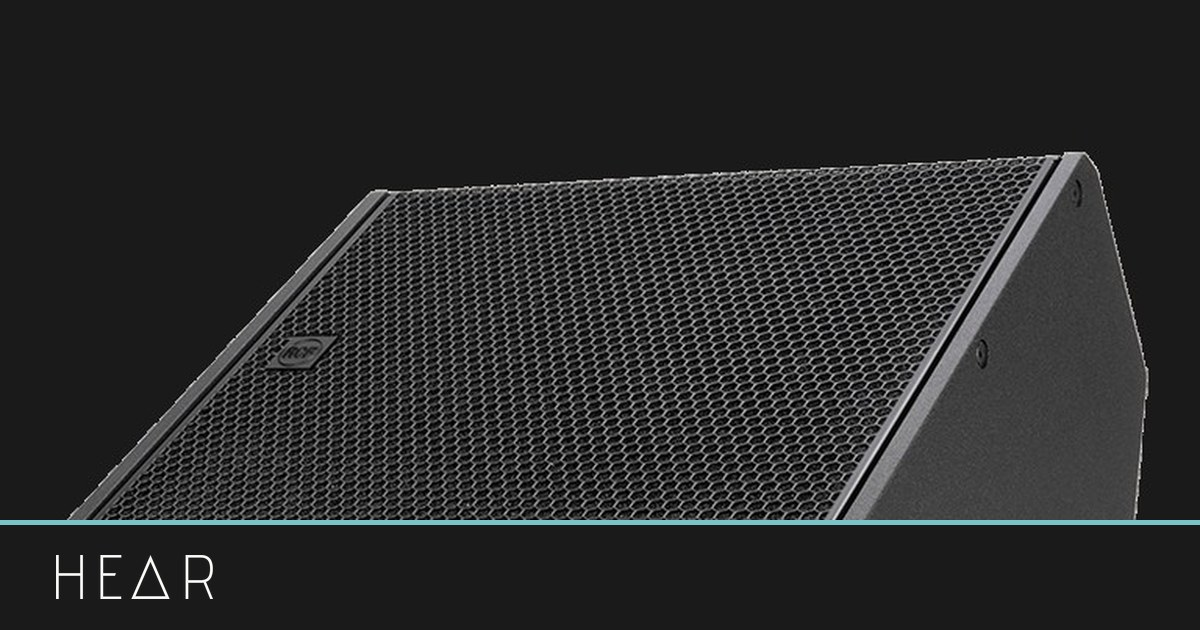
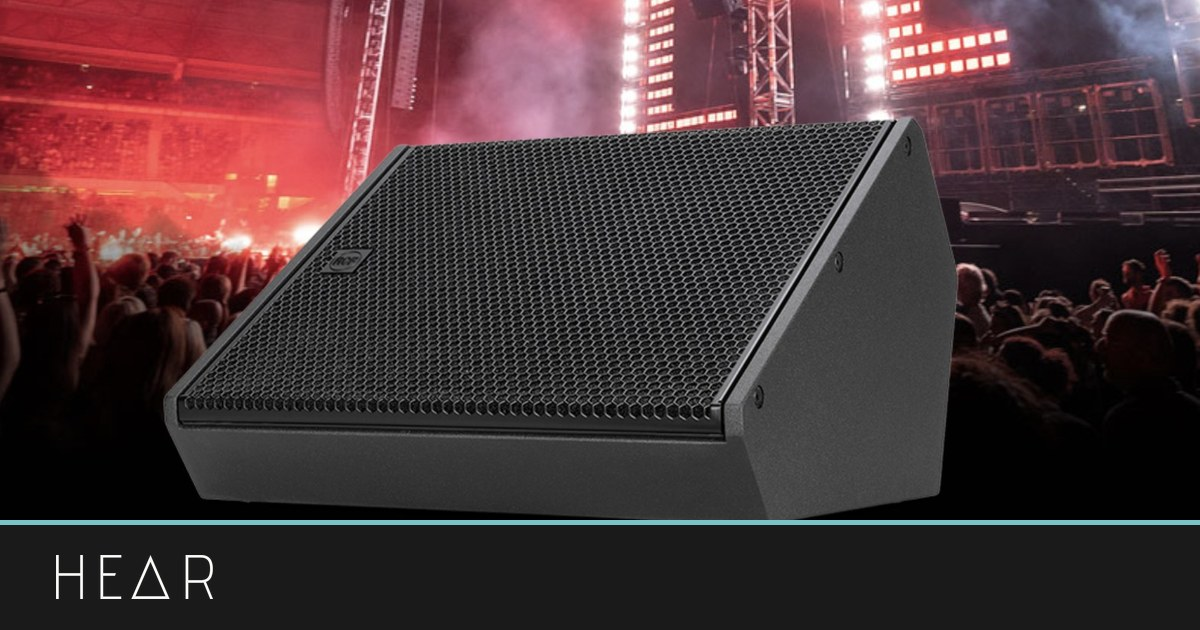
Nieuws: KXM-beeld vervangen; bericht twee sets 808+515
Claude-Session: https://claude.ai/code/session_01GmX7kLSd7zBrRVaX3p88AV

diff --git a/site/nieuws/twee-sets-808-515.html b/site/nieuws/twee-sets-808-515.html
@@ -1,0 +1,51 @@
+<!doctype html><html lang="nl"><head><meta charset="utf-8"><meta name="viewport" content="width=device-width,initial-scale=1"><meta name="description" content="Twee compacte sub-topsets die drie dingen kunnen: op zichzelf spelen bij een lezing of intieme cocktailparty, monitoren in de dj-booth, en als frontfill of"><title>Nieuw in huis: twee sets RCF SUB 808-AS met KX 515-A · HEAR</title><meta property="og:title" content="Nieuw in huis: twee sets RCF SUB 808-AS met KX 515-A"><meta property="og:description" content="Twee compacte sub-topsets die drie dingen kunnen: op zichzelf spelen bij een lezing of intieme cocktailparty, monitoren in de dj-booth, en als frontfill of delay meedraaien in het grote systeem."><meta property="og:url" content="https://hear.maartenversteeg.workers.dev/nieuws/twee-sets-808-515.html"><meta property="og:site_name" content="HEAR"><meta property="og:type" content="article"><meta property="og:locale" content="nl_NL"><meta property="og:image" content="https://hear.maartenversteeg.workers.dev/img/nieuws/twee-sets-808-515-social.jpg"><meta property="og:image:width" content="1200"><meta property="og:image:height" content="630"><meta name="twitter:card" content="summary_large_image"><meta name="twitter:image" content="https://hear.maartenversteeg.workers.dev/img/nieuws/twee-sets-808-515-social.jpg"><link rel="canonical" href="https://hear.maartenversteeg.workers.dev/nieuws/twee-sets-808-515.html"><link rel="preconnect" href="https://fonts.googleapis.com"><link rel="preconnect" href="https://fonts.gstatic.com" crossorigin><link href="https://fonts.googleapis.com/css2?family=Advent+Pro:wght@300;400;500&display=swap" rel="stylesheet"><link rel="stylesheet" href="/home.css"><link rel="stylesheet" href="/styles.css"></head><body class="pagina"><header class="top">
+  <a class="merk" href="/index.html" aria-label="HEAR, naar de homepage"><img src="/img/logo-white.png" alt="HEAR"></a>
+  <nav class="topnav" aria-label="Hoofdnavigatie">
+    <a href="/cases.html">Cases</a>
+    <a href="/doelgroepen.html">Voor wie</a>
+    <a href="/principes.html">Principes</a>
+    <a href="/diensten.html">Producten</a>
+    <a href="/over-hear.html">Over HEAR</a>
+    <a href="/nieuws/" aria-current="page">Nieuws</a>
+  </nav>
+  <a class="taal" href="/index.html" lang="en" hreflang="en" aria-label="Switch to English">EN</a>
+  <button class="menuknop" type="button" aria-expanded="false" aria-controls="menu" aria-label="Menu openen">
+    <span></span><span></span>
+  </button>
+</header>
+<div class="menu" id="menu" hidden>
+  <nav aria-label="Hoofdmenu">
+      <a href="/cases.html"><span>Voorbeeldcases</span><small>Events die tot de verbeelding spreken</small></a>
+      <a href="/doelgroepen.html"><span>Voor wie is HEAR</span><small>Corporate, venue owners en dance events</small></a>
+      <a href="/principes.html"><span>Principes</span><small>De manier waarop wij werken</small></a>
+      <a href="/diensten.html"><span>Producten en diensten</span><small>Licht, geluid, dj-gear en advies</small></a>
+      <a href="/over-hear.html"><span>Over HEAR</span><small>Oprichter Maarten stelt zich voor</small></a>
+      <a href="/nieuws/"><span>Nieuws</span><small>Nieuwe producten, events en berichten</small></a>
+  </nav>
+</div>
+<script>
+  (function(){
+    var k=document.querySelector('.menuknop'), m=document.getElementById('menu');
+    function zet(open){ k.setAttribute('aria-expanded',open); k.setAttribute('aria-label',open?'Menu sluiten':'Menu openen'); m.hidden=!open; document.body.classList.toggle('menu-open',open); }
+    k.addEventListener('click',function(){ zet(k.getAttribute('aria-expanded')!=='true'); });
+    document.addEventListener('keydown',function(e){ if(e.key==='Escape') zet(false); });
+  })();
+</script><main class="wrap">
+<section class="casehead"><a class="crumb" href="/nieuws/">← Nieuws</a><p class="label nieuws-datum"><time datetime="2026-10-17">17 oktober 2026</time></p><h1 class="kernzin">Nieuw in huis: twee sets RCF SUB 808-AS met KX 515-A</h1></section>
+<figure class="casehero"><img src="/img/nieuws/808-515-set.jpg" alt="RCF KX 515-A top op een afstandsbuis boven een SUB 808-AS, net uitgepakt" style="object-position:center 40%"></figure>
+<section class="quick quick-breed"><p>Twee compacte sub-topsets die drie dingen kunnen: op zichzelf spelen bij een lezing of intieme cocktailparty, monitoren in de dj-booth, en als frontfill of delay meedraaien in het grote systeem.</p></section>
+<section class="case-sections"><article class="case-section nieuws-tekst"><h2>WAAROM TWEE</h2><div><p>De SUB 808-AS met de KX 515-A erop is onze kleinste volwaardige set: een compacte sub en een top uit dezelfde familie als de KXL 4-A, dus met dezelfde klank, een maat kleiner. Voor een speech, een panel of een cocktailparty tot zo&#x27;n 150 gasten is dit genoeg, en het staat in een paar minuten.</p><p>In de dj-booth doet dezelfde combinatie dienst als monitor, met de tops op oorhoogte links en rechts van de dj.</p><p>De derde rol is de reden dat het er twee zijn. In een groter systeem gaat de 515 los van zijn sub mee als frontfill voor de eerste rijen, of als delay verderop in de zaal. Daardoor kunnen de KXL-toppen hoger hangen en verder richten: het geluid van de mains wordt niet meer door de eerste hoofden opgegeten, en achterin blijft het vol zonder dat het vooraan hard wordt.</p><p class="knoprij"><a class="wa sc" href="/high-end-audio.html">Bekijk high-end audio<i aria-hidden="true">→</i></a></p></div></article></section>
+<nav class="verwijzingen" aria-label="Verder"><a href="/nieuws/">Alle berichten →</a><a href="/index.html">Naar de homepage →</a></nav>
+</main><footer class="voet">
+  <div class="voet-kolommen">
+    <div class="voet-merk">
+      <img src="/img/logo-white.png" alt="HEAR">
+      <p>High End Audio Rental · Amsterdam</p>
+      <p><a href="mailto:maarten@hear.nl">maarten@hear.nl</a></p>
+    </div>
+    <nav aria-label="Werk"><p class="label">Werk</p><a href="/cases.html">Cases</a><a href="/nieuws/">Nieuws</a><a href="/over-hear.html">Over HEAR</a></nav>
+    <nav aria-label="Voor wie"><p class="label">Voor wie</p><a href="/corporate.html">Corporate</a><a href="/venue-owners.html">Venue owners</a><a href="/dance-events.html">Dance events</a></nav>
+    <nav aria-label="Producten"><p class="label">Producten</p><a href="/booth-dj-gear.html">Booth en dj-gear</a><a href="/high-end-audio.html">High-end audio</a><a href="/atmospheric-lighting.html">Sfeerverlichting</a><a href="/dancefloor-lighting.html">Dansvloerverlichting</a><a href="/vintage-lighting.html">90's vintage licht</a><a href="/av-as-a-service.html">Advies en AV as a service</a><a href="/artiesten.html">Artiesten</a><a href="/special-projects.html">Special projects</a></nav>
+    <nav aria-label="Principes"><p class="label">Principes</p><a href="/principes.html#partnership">Partnership</a><a href="/principes.html#aesthetics">Uitstraling</a><a href="/principes.html#smart-solutions">Slimme oplossingen</a><a href="/principes.html#warm-sound">Warm geluid</a></nav>
+  </div>
+</footer></body></html>

diff --git a/site/nieuws/index.html b/site/nieuws/index.html
@@ -32,7 +32,7 @@
   })();
 </script><main class="wrap">
 <section class="casehead"><a class="crumb" href="/index.html">← HEAR</a><h1>Nieuws</h1></section>
-<section class="case-overzicht"><article class="case-tegel"><img src="/img/diensten/kxm-25.jpg" alt="RCF KXM 25-A floormonitor in wedgevorm" loading="lazy"><div class="case-tekst"><p class="labels"><time datetime="2026-10-17">17 oktober 2026</time></p><h2><a class="tegel-link" href="/nieuws/kxm-25-a-floormonitor.html">Nieuw in de booth: RCF KXM 25-A floormonitor</a></h2><p>Een 15-inch coaxiale floormonitor voor dj&#x27;s die hun monitoring liever onzichtbaar voor het publiek hebben. Krachtig, punchy en coherent.</p><span class="pijl" aria-hidden="true">→</span></div></article></section>
+<section class="case-overzicht"><article class="case-tegel"><img src="/img/nieuws/kxm-25-a-concert.jpg" alt="RCF KXM 25-A floormonitor met een festivalpodium op de achtergrond" loading="lazy" style="object-position:center 60%"><div class="case-tekst"><p class="labels"><time datetime="2026-10-17">17 oktober 2026</time></p><h2><a class="tegel-link" href="/nieuws/kxm-25-a-floormonitor.html">Nieuw in de booth: RCF KXM 25-A floormonitor</a></h2><p>Een 15-inch coaxiale floormonitor voor dj&#x27;s die hun monitoring liever onzichtbaar voor het publiek hebben. Krachtig, punchy en coherent.</p><span class="pijl" aria-hidden="true">→</span></div></article><article class="case-tegel"><img src="/img/nieuws/808-515-set.jpg" alt="RCF KX 515-A top op een afstandsbuis boven een SUB 808-AS, net uitgepakt" loading="lazy" style="object-position:center 40%"><div class="case-tekst"><p class="labels"><time datetime="2026-10-17">17 oktober 2026</time></p><h2><a class="tegel-link" href="/nieuws/twee-sets-808-515.html">Nieuw in huis: twee sets RCF SUB 808-AS met KX 515-A</a></h2><p>Twee compacte sub-topsets die drie dingen kunnen: op zichzelf spelen bij een lezing of intieme cocktailparty, monitoren in de dj-booth, en als frontfill of delay meedraaien in het grote systeem.</p><span class="pijl" aria-hidden="true">→</span></div></article></section>
 </main><footer class="voet">
   <div class="voet-kolommen">
     <div class="voet-merk">

diff --git a/site/nieuws/kxm-25-a-floormonitor.html b/site/nieuws/kxm-25-a-floormonitor.html
@@ -32,7 +32,7 @@
   })();
 </script><main class="wrap">
 <section class="casehead"><a class="crumb" href="/nieuws/">← Nieuws</a><p class="label nieuws-datum"><time datetime="2026-10-17">17 oktober 2026</time></p><h1 class="kernzin">Nieuw in de booth: RCF KXM 25-A floormonitor</h1></section>
-<figure class="casehero"><img src="/img/diensten/kxm-25.jpg" alt="RCF KXM 25-A floormonitor in wedgevorm"></figure>
+<figure class="casehero"><img src="/img/nieuws/kxm-25-a-concert.jpg" alt="RCF KXM 25-A floormonitor met een festivalpodium op de achtergrond" style="object-position:center 60%"></figure>
 <section class="quick quick-breed"><p>Een 15-inch coaxiale floormonitor voor dj&#x27;s die hun monitoring liever onzichtbaar voor het publiek hebben. Krachtig, punchy en coherent.</p></section>
 <section class="case-sections"><article class="case-section nieuws-tekst"><h2>WAT HET IS</h2><div><p>De KXM 25-A is een wedge: een lage, schuine monitor die op de vloer van de booth ligt en omhoog naar de dj is gericht. Het publiek ziet hem niet, de dj hoort zichzelf wel. Met 137 dB en een bereik vanaf 50 Hz is hij ook op een luide dansvloer verstaanbaar.</p><p>De woofer en de hoorn zitten coaxiaal, in één as. Daardoor komt het geluid uit één punt en klinkt het coherent, ook dichtbij. Dat is precies wat je in een booth wilt.</p><p>Vanaf nu is de KXM 25-A de tweede monitoroptie in onze booth, naast de compacte sub-topcombinatie van SUB 808-AS en KX 515-A.</p><p class="knoprij"><a class="wa sc" href="/booth-dj-gear.html">Bekijk de booth en dj-gear<i aria-hidden="true">→</i></a></p></div></article></section>
 <nav class="verwijzingen" aria-label="Verder"><a href="/nieuws/">Alle berichten →</a><a href="/index.html">Naar de homepage →</a></nav>
